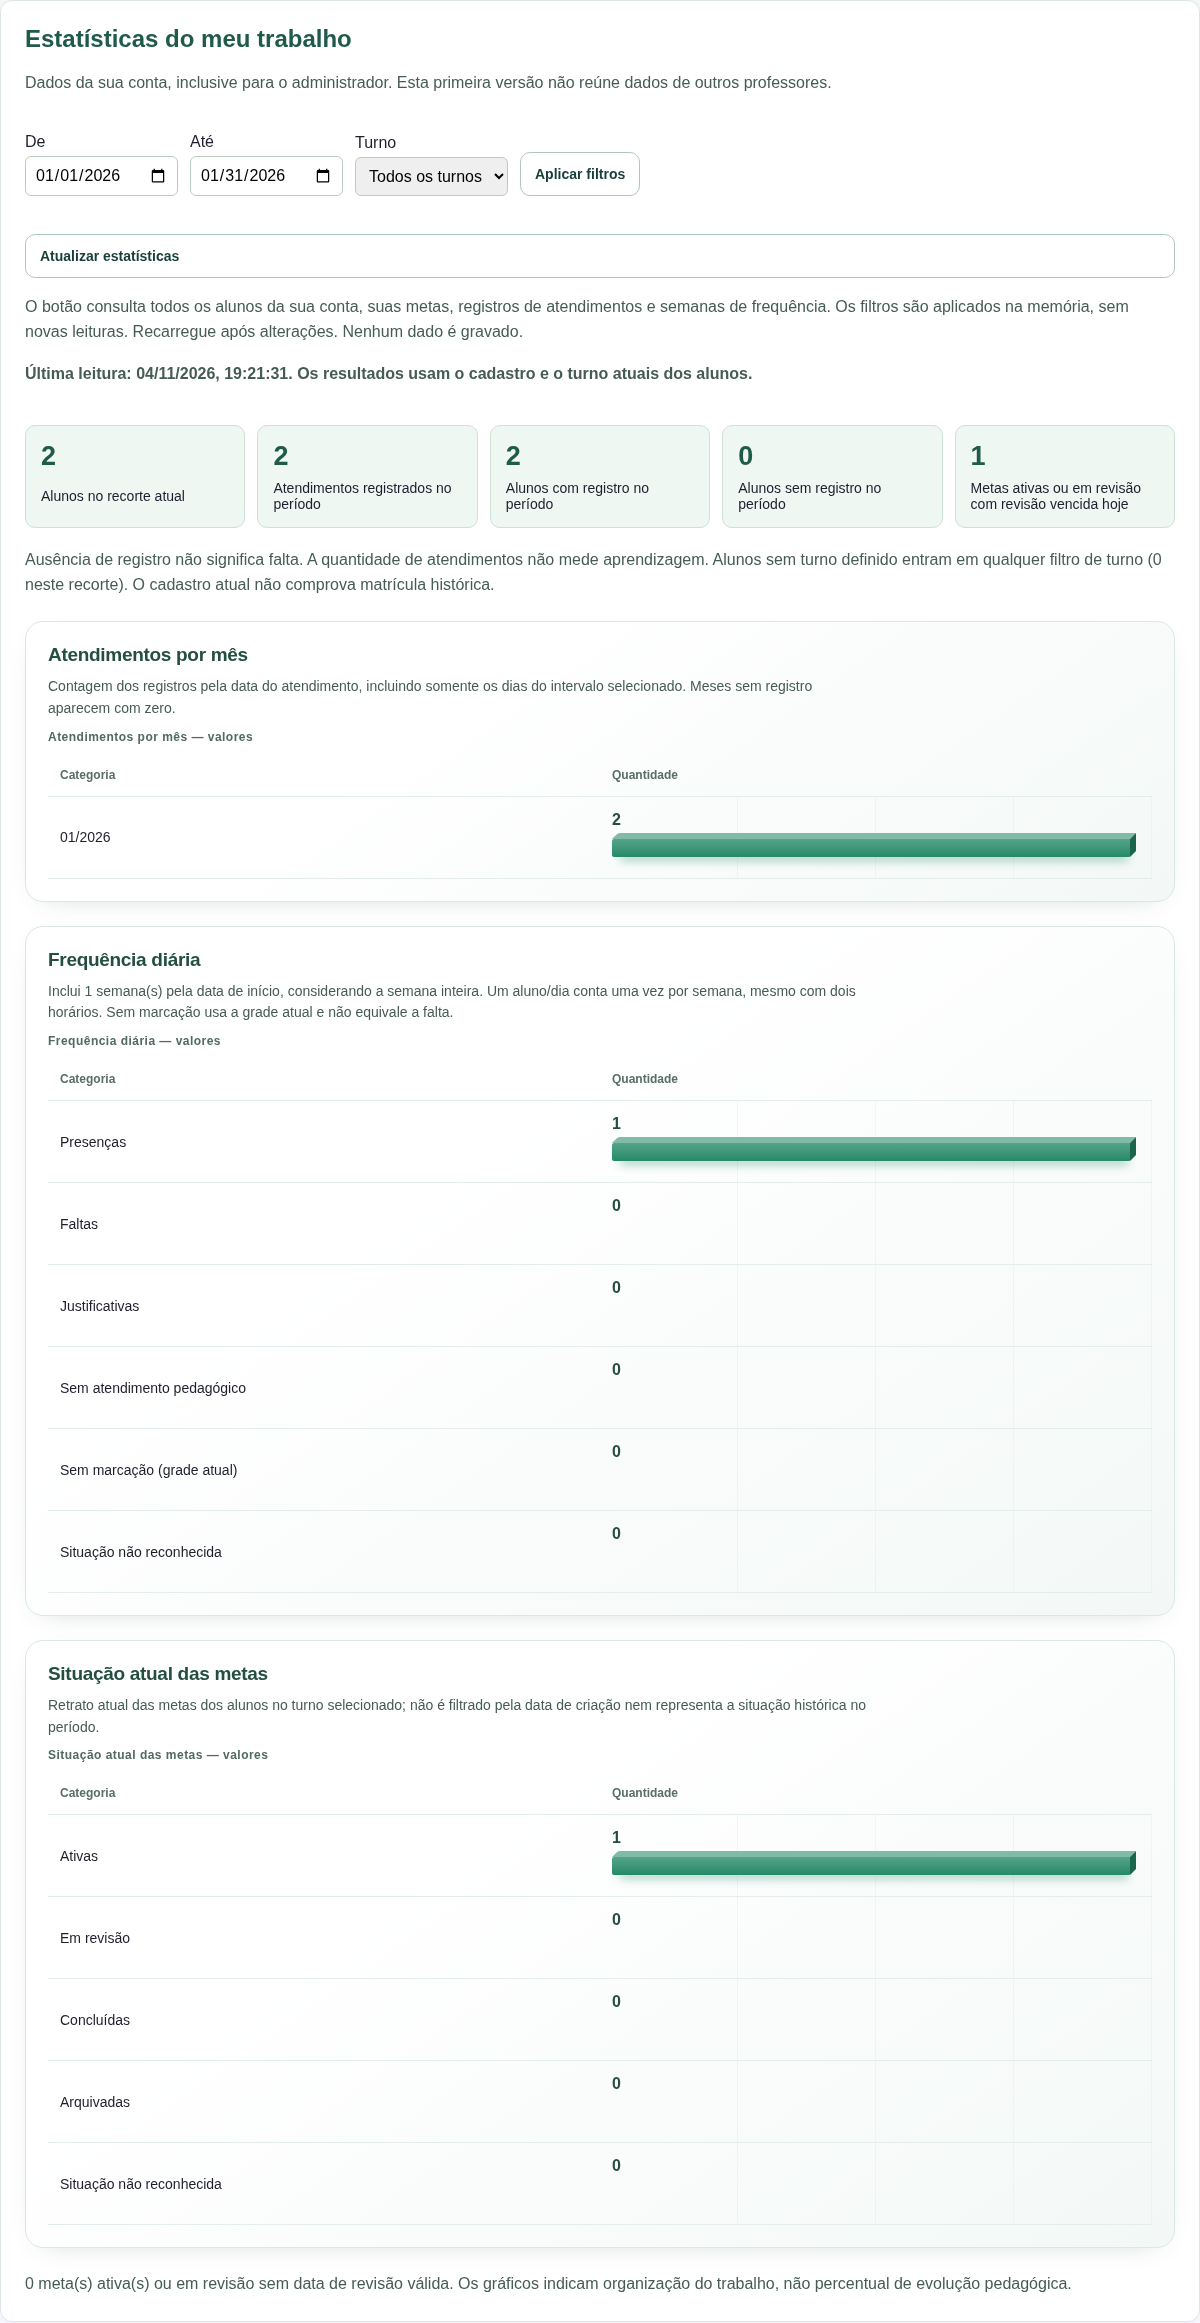
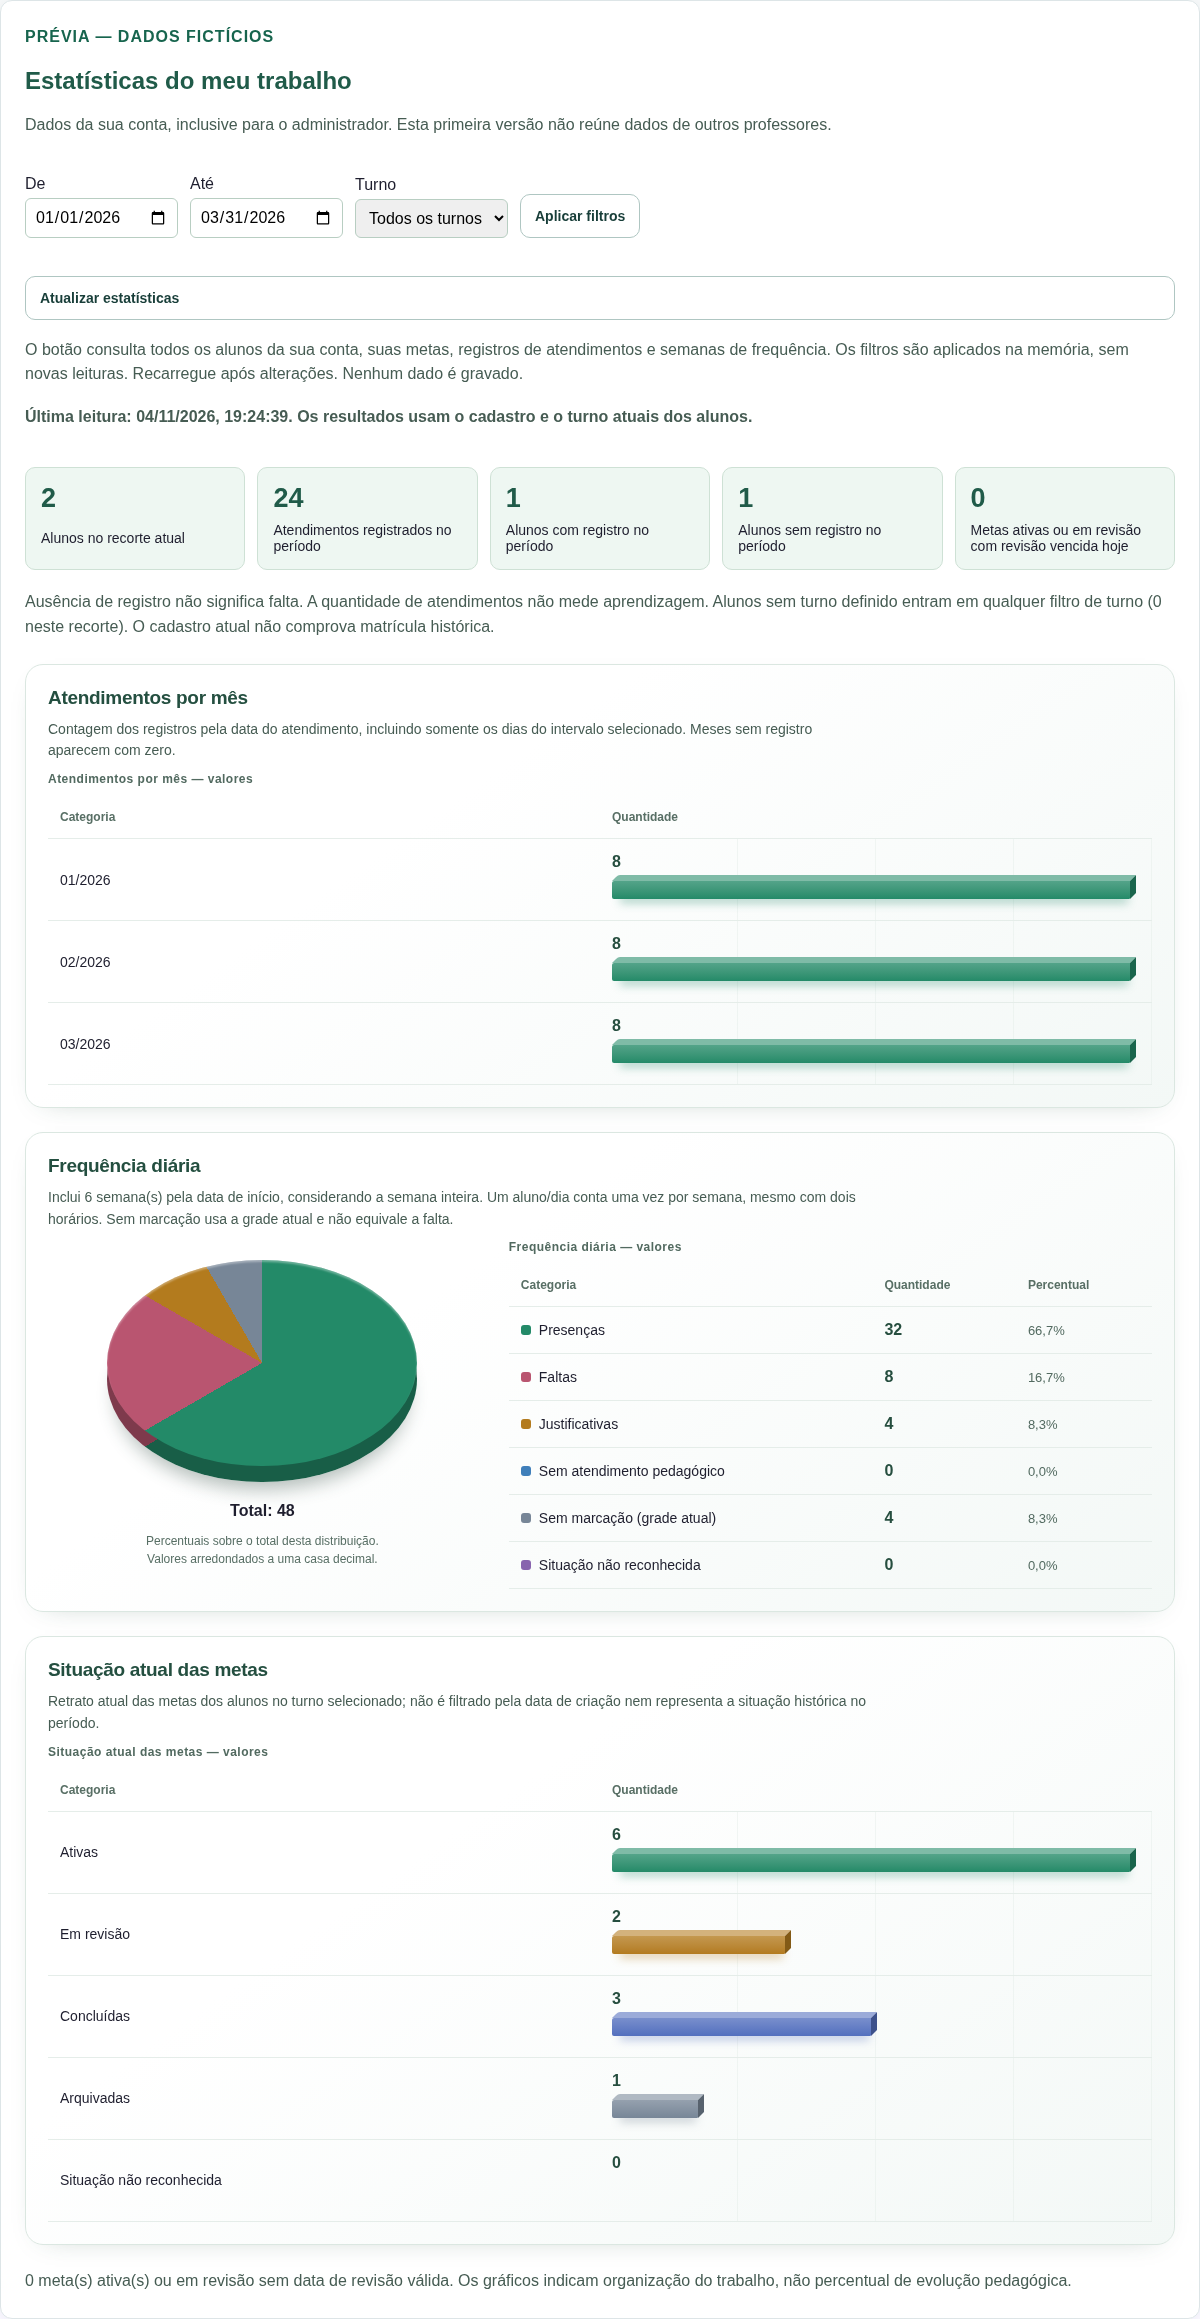
Preview 3D pie charts for frequency and goal distribution

diff --git a/estatisticas.js b/estatisticas.js
@@ -20,12 +20,32 @@
   const status=n('p');status.id='estatStatus';status.setAttribute('role','status');status.setAttribute('aria-live','polite');const resultado=n('div');resultado.id='estatResultado';root.append(status,resultado);render();
  }
  function filtro(){return {de:$('estatDe').value,ate:$('estatAte').value,turno:$('estatTurno').value};}
- function grafico(root,titulo,itens,descricao){
+ function grafico(root,titulo,itens,descricao,modo='barras'){
   const section=n('section');section.className='estat-grafico';section.append(n('h3',titulo),n('p',descricao));
   const cores={'Presenças':'#238a68','Faltas':'#b95570','Justificativas':'#b37b1e','Sem atendimento pedagógico':'#3f7fba','Sem marcação (grade atual)':'#778697','Situação não reconhecida':'#8864ae','Ativas':'#238a68','Em revisão':'#b37b1e','Concluídas':'#536fbe','Arquivadas':'#778697'};
+  const cor=label=>cores[label]||'#238a68',soma=itens.reduce((a,i)=>a+i[1],0),pizza=modo==='pizza';
   const max=Math.max(1,...itens.map(i=>i[1])),table=n('table'),caption=n('caption',titulo+' — valores');table.append(caption);
-  const head=n('tr');for(const t of ['Categoria','Quantidade']){const th=n('th',t);th.scope='col';head.append(th);}const thead=n('thead');thead.append(head);table.append(thead);const body=n('tbody');
-  for(const [label,total]of itens){const row=n('tr'),th=n('th',label),td=n('td');th.scope='row';const bar=n('span');bar.className='estat-barra';bar.style.width=(total/max*100)+'%';bar.style.setProperty('--estat-cor',cores[label]||'#238a68');if(total===0)bar.classList.add('estat-barra-zero');bar.setAttribute('aria-hidden','true');td.append(n('strong',String(total)),bar);row.append(th,td);body.append(row);}table.append(body);section.append(table);root.append(section);
+  const layout=n('div');layout.className=pizza?'estat-pizza-layout':'';
+  if(pizza){
+   const visual=n('div');visual.className='estat-pizza-visual';
+   if(soma){
+    let acumulado=0;const fatias=[];
+    for(const [label,total]of itens){if(!total)continue;const inicio=acumulado/soma*360;acumulado+=total;fatias.push(cor(label)+' '+inicio+'deg '+acumulado/soma*360+'deg');}
+    const disco=n('div');disco.className='estat-pizza';disco.setAttribute('aria-hidden','true');disco.style.setProperty('--fatias','conic-gradient('+fatias.join(',')+')');
+    const base=n('div'),topo=n('div');base.className='estat-pizza-base';topo.className='estat-pizza-topo';disco.append(base,topo);visual.append(disco);
+   }else visual.append(n('p','Sem dados para compor a pizza neste recorte.'));
+   visual.append(n('strong','Total: '+soma),n('small','Percentuais sobre o total desta distribuição. Valores arredondados a uma casa decimal.'));layout.append(visual);
+  }
+  const head=n('tr');for(const t of pizza?['Categoria','Quantidade','Percentual']:['Categoria','Quantidade']){const th=n('th',t);th.scope='col';head.append(th);}const thead=n('thead');thead.append(head);table.append(thead);const body=n('tbody');
+  for(const [label,total]of itens){
+   const row=n('tr'),th=n('th'),td=n('td');th.scope='row';
+   if(pizza){const ponto=n('span');ponto.className='estat-pizza-cor';ponto.style.backgroundColor=cor(label);ponto.setAttribute('aria-hidden','true');th.append(ponto);}
+   th.append(document.createTextNode(label));td.append(n('strong',String(total)));row.append(th,td);
+   if(pizza)row.append(n('td',soma?(total/soma*100).toLocaleString('pt-BR',{minimumFractionDigits:1,maximumFractionDigits:1})+'%':'—'));
+   else{const bar=n('span');bar.className='estat-barra';bar.style.width=(total/max*100)+'%';bar.style.setProperty('--estat-cor',cor(label));if(total===0)bar.classList.add('estat-barra-zero');bar.setAttribute('aria-hidden','true');td.append(bar);}
+   body.append(row);
+  }
+  table.append(body);layout.append(table);section.append(layout);root.append(section);
  }
  function render(){
   if(!ctx?.vigente()||!$('estatResultado'))return;
@@ -38,7 +58,7 @@
   output.append(n('p','Ausência de registro não significa falta. A quantidade de atendimentos não mede aprendizagem. Alunos sem turno definido entram em qualquer filtro de turno ('+r.semTurno+' neste recorte). O cadastro atual não comprova matrícula histórica.'));
   if(r.registrosSemData||r.semanasSemData)output.append(n('p',r.registrosSemData+' registro(s) de atendimento e '+r.semanasSemData+' semana(s) sem data válida foram excluídos do período.'));
   grafico(output,'Atendimentos por mês',Object.entries(r.meses).map(([mes,v])=>[mes.slice(5)+'/'+mes.slice(0,4),v]),'Contagem dos registros pela data do atendimento, incluindo somente os dias do intervalo selecionado. Meses sem registro aparecem com zero.');
-  grafico(output,'Frequência diária',Object.entries(labels).map(([k,t])=>[t,r.diarios[k]]),'Inclui '+r.semanas+' semana(s) pela data de início, considerando a semana inteira. Um aluno/dia conta uma vez por semana, mesmo com dois horários. Sem marcação usa a grade atual e não equivale a falta.');
+  grafico(output,'Frequência diária',Object.entries(labels).map(([k,t])=>[t,r.diarios[k]]),'Inclui '+r.semanas+' semana(s) pela data de início, considerando a semana inteira. Um aluno/dia conta uma vez por semana, mesmo com dois horários. Sem marcação usa a grade atual e não equivale a falta.','pizza');
   for(const [key,title]of [['antigos','Marcações semanais antigas'],['semDia','Marcações sem dia reconhecido']])if(Object.values(r[key]).some(v=>v))grafico(output,title,Object.entries(labels).map(([k,t])=>[t,r[key][k]]),'Contagens separadas da frequência diária para evitar somar registros com unidades diferentes.');
   if(!r.semanas)output.append(n('p','Não há semanas com data válida nesse intervalo e turno. Isso não significa ausência dos alunos.'));
   grafico(output,'Situação atual das metas',Object.entries(metaLabels).map(([k,t])=>[t,r.metas[k]]),'Retrato atual das metas dos alunos no turno selecionado; não é filtrado pela data de criação nem representa a situação histórica no período.');

diff --git a/estatisticas.css b/estatisticas.css
@@ -17,3 +17,18 @@
 .estat-barra-zero:before,.estat-barra-zero:after{display:none}
 @media(max-width:480px){.estat-grafico{padding:12px;border-radius:14px}.estat-grafico th,.estat-grafico td{padding:12px 6px}.estat-grafico td{padding-right:15px}.estat-grafico tbody th{font-size:12px}.estat-barra{height:16px}.estat-grafico h3{font-size:17px}}
 @media print{.estat-grafico{box-shadow:none;background:white}.estat-barra{print-color-adjust:exact;-webkit-print-color-adjust:exact}}
+
+/* Pizza com perspectiva constante e profundidade apenas decorativa. */
+.estat-pizza-layout{display:grid;grid-template-columns:minmax(230px,.8fr) minmax(0,1.2fr);gap:32px;align-items:center}
+.estat-pizza-visual{display:grid;justify-items:center;gap:12px;padding:16px 6px;text-align:center;min-width:0}
+.estat-pizza-visual small{font-size:12px;color:#586f65;max-width:260px;line-height:1.5}
+.estat-pizza{position:relative;width:100%;max-width:310px;aspect-ratio:1.5;margin:8px 0 24px}
+.estat-pizza-base,.estat-pizza-topo{position:absolute;inset:0;border-radius:50%;background:var(--fatias)}
+.estat-pizza-base{transform:translateY(16px);filter:brightness(.68);box-shadow:0 16px 19px -9px #214b3c55}
+.estat-pizza-topo{box-shadow:inset 0 2px 2px #ffffff55}
+.estat-pizza-cor{display:inline-block;width:10px;height:10px;border-radius:3px;margin-right:8px;vertical-align:baseline}
+.estat-pizza-layout table{table-layout:auto}
+.estat-pizza-layout th{width:auto}
+.estat-pizza-layout td{background:none;padding-right:10px;white-space:nowrap;font-variant-numeric:tabular-nums}
+.estat-pizza-layout td:last-child{color:#526a60;font-size:13px}
+@media(max-width:760px){.estat-pizza-layout{grid-template-columns:minmax(0,1fr);gap:6px}.estat-pizza{max-width:280px}.estat-pizza-layout td,.estat-pizza-layout th{padding:10px 6px}.estat-pizza-layout thead th{font-size:11px}.estat-pizza-visual{padding-bottom:6px}}

diff --git a/ETAPA-27-ESTATISTICAS.md b/ETAPA-27-ESTATISTICAS.md
@@ -34,3 +34,5 @@ Consulta alunos e semanas por professorUid, depois registros e metas de cada alu
 Sem uso de dados reais nos testes. Configuração remota, permissões reais e dados reais não foram consultados. Publicação manual somente quando solicitada pelo usuário.
 
 Ajuste visual 3D: comprimentos permanecem proporcionais aos totais; zero não ganha volume artificial. Valores textuais e tabelas continuam acessíveis. Testes de consolidação (27) e navegador (19) passaram após o ajuste, incluindo celular.
+
+Prévia de pizza solicitada: frequência diária e situação atual das metas agora usam pizza com efeito 3D discreto, tabela de quantidades e percentuais. O denominador é a soma de todas as categorias de cada distribuição, incluindo sem marcação e situação desconhecida, quando existentes. Não representa taxa de aprendizagem nem substitui a definição de percentual de presença usada nos documentos. Categorias zeradas aparecem na legenda, sem fatias falsas; sem dados não há pizza. Atendimentos por mês e marcações antigas continuam em barras. Percentuais arredondados podem não totalizar exatamente 100%. Capturas usam somente dados fictícios. Teste de navegador ampliado para 23 verificações, incluindo total zero e categoria única. Prévia ainda não publicada no Netlify.
